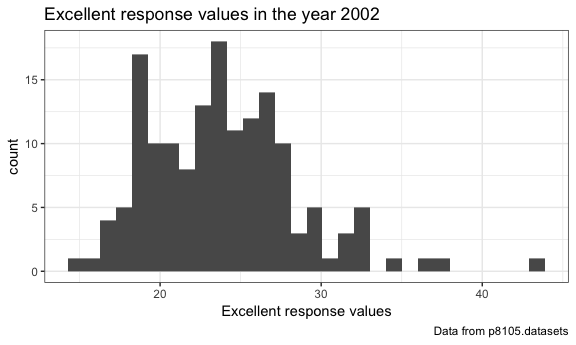
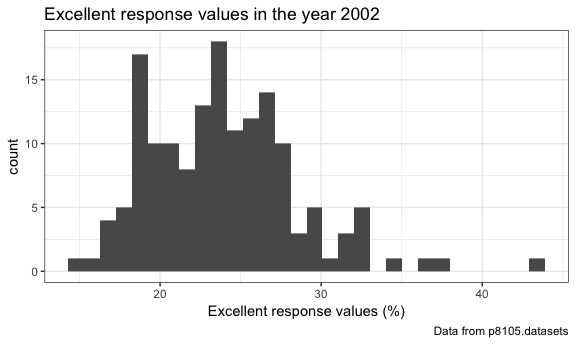
correct a mistake

Changed region(s): [[0.3438, 0.8696, 0.7188, 0.9275]]

diff --git a/p8105_hw2_tl2882.md b/p8105_hw2_tl2882.md
@@ -149,11 +149,11 @@ Read and tidy brfss\_smart2010
 ``` r
 brfss = brfss_smart2010 %>% 
   janitor::clean_names() %>%
-  filter(topic == "Overall Health") %>% 
+  filter(topic == "Overall Health") %>%
   select(-class, -topic, -question, -sample_size, -(confidence_limit_low:geo_location)) %>% 
   spread(key = response, value = data_value) %>% 
   janitor::clean_names() %>%
-  mutate(excellent_or_verygood = excellent + very_good)
+  mutate(excel_or_verygood = excellent + very_good)
 ```
 
 Problem 3.1
@@ -216,7 +216,7 @@ ggplot(brfss_2002, aes(x = excellent)) +
   geom_histogram() + 
   labs(
     title = "Excellent response values in the year 2002", 
-    x = "Excellent response values", 
+    x = "Excellent response values (%)", 
     caption = "Data from p8105.datasets"
   )
 ```
@@ -234,13 +234,11 @@ Problem 3.4
 
 ``` r
 filter(brfss, locationdesc == "NY - New York County" | locationdesc == "NY - Queens County") %>% 
-  mutate(excellent_proportion = excellent / (excellent + very_good + good + fair + poor)) %>%
-  
-  ggplot(aes(x = year, y = excellent_proportion, color = locationdesc)) + 
+  ggplot(aes(x = year, y = excellent, color = locationdesc)) + 
     geom_point() + 
     labs(
       title = "Excellent Proportion in NewYork & Queens from 2002 to 2010",
-      y = "proportion of Excellent response", 
+      y = "proportion of Excellent response (%)", 
       caption = "Data from p8105.datasets"
     ) + 
     viridis::scale_color_viridis(name = "Location", discrete = TRUE)
